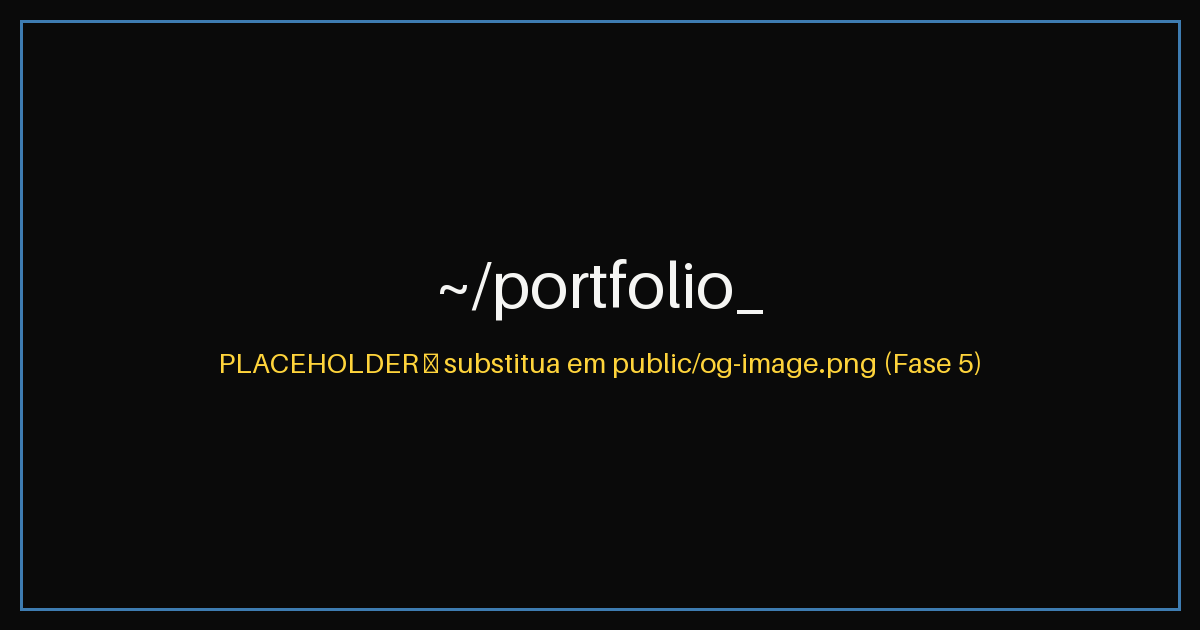
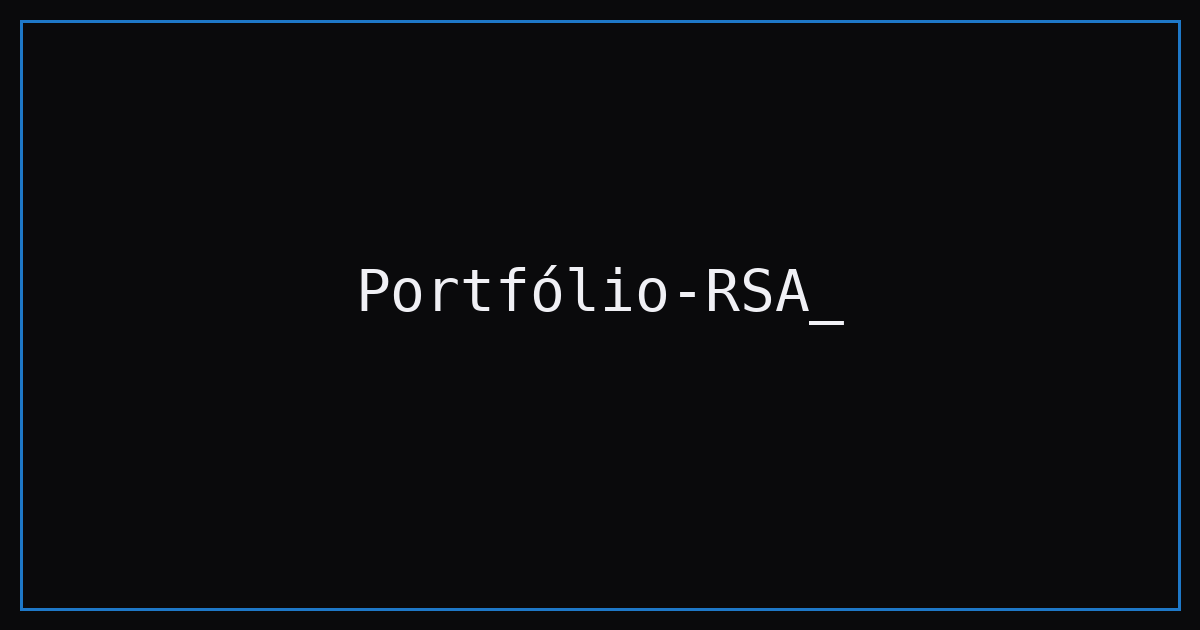
preparações finais para o deploy

diff --git a/index.html b/index.html
@@ -3,7 +3,22 @@
 <head>
 <meta charset="UTF-8">
 <meta name="viewport" content="width=device-width, initial-scale=1.0">
-<title>Seu Nome — Portfólio</title>
+<title>Renan Santos — Portfólio</title>
+<!-- Atualizar as URLs abaixo se usar domínio próprio. -->
+<meta name="description" content="Portfólio de estudante de Ciência da Computação: projetos, habilidades em programação e formas de contato.">
+<link rel="canonical" href="https://santosaguiar123.github.io/portfolio/">
+<meta property="og:title" content="Renan Santos — Portfólio">
+<meta property="og:description" content="Portfólio de estudante de Ciência da Computação: projetos, habilidades em programação e formas de contato.">
+<meta property="og:image" content="https://santosaguiar123.github.io/portfolio/og-image.png?v=034bd6854801">
+<meta property="og:image:alt" content="Portfólio de projetos e habilidades em programação">
+<meta property="og:url" content="https://santosaguiar123.github.io/portfolio/">
+<meta property="og:type" content="website">
+<meta property="og:locale" content="pt_BR">
+<meta name="twitter:card" content="summary_large_image">
+<meta name="twitter:title" content="Renan Santos — Portfólio">
+<meta name="twitter:description" content="Portfólio de estudante de Ciência da Computação: projetos, habilidades em programação e formas de contato.">
+<meta name="twitter:image" content="https://santosaguiar123.github.io/portfolio/og-image.png?v=034bd6854801">
+<meta name="twitter:image:alt" content="Portfólio de projetos e habilidades em programação">
 
 <link rel="icon" type="image/svg+xml" href="/favicon.svg">
 <link rel="stylesheet" href="/src/styles/main.css">
@@ -24,7 +39,7 @@
     <a href="#home" class="brand">~/portfolio<span>_</span></a>
 
     <button class="nav-toggle" id="navToggle" aria-label="Abrir menu" aria-expanded="false">
-      <i class="fa-solid fa-bars"></i>
+      <i aria-hidden="true" class="fa-solid fa-bars"></i>
     </button>
 
     <ul class="nav-links" id="navLinks">
@@ -40,18 +55,11 @@
   <!-- HOME                          -->
   <!-- ============================= -->
   <header id="home" class="hero">
-    <div class="avatar-frame">
-      <div class="avatar-inner">
-        <!-- SUBSTITUA por: <img src="sua-foto.jpg" alt="Foto de [Seu Nome]"> -->
-        <i class="fa-solid fa-user avatar-placeholder"></i>
-      </div>
-    </div>
-
-    <h1 class="hero-name">Seu Nome Aqui</h1>
-    <p class="hero-role">// estudante de ciência da computação<span class="cursor"></span></p>
+<h1 class="hero-name">Renan Santos de Aguiar</h1>
+    <p class="hero-role">// estudante de ciência da computação UFC<span class="cursor"></span></p>
 
     <a href="#sobre" class="scroll-cue" aria-label="Rolar para a próxima seção">
-      <i class="fa-solid fa-chevron-down"></i>
+      <i aria-hidden="true" class="fa-solid fa-chevron-down"></i>
     </a>
   </header>
 
@@ -61,20 +69,27 @@
   <section id="sobre" class="section">
     <div class="container">
       <div class="section-head">
-        <span class="section-tag">sobre-mim.md</span>
         <h2>Sobre mim</h2>
       </div>
 
       <div class="sobre-content">
         <p>
-          <!-- SUBSTITUA: breve apresentação pessoal -->
-          Escreva aqui um parágrafo contando quem você é, o que te trouxe até a
-          computação e o que te motiva a estudar e programar.
+          Sou Renan Santos, estudante de Ciência da Computação 
+          na Universidade Federal do Ceará (UFC) e atualmente membro da CeosJr,
+          Empresa Júnior de Computação. Sempre tive muito interesse por tecnologia e,
+          desde cedo, enxerguei a computação como a área em que gostaria de construir 
+          minha carreira. O que mais me motiva é a possibilidade de transformar ideias
+          em soluções reais por meio da programação, além do aprendizado constante que a área proporciona.
         </p>
         <p>
-          <!-- SUBSTITUA: trajetória acadêmica/profissional -->
-          Neste segundo parágrafo, fale sobre sua <strong>trajetória</strong>: cursos,
-          projetos pessoais, experiências e o que você busca em um estágio.
+          Ao longo da minha trajetória, venho buscando desenvolver minha experiência tanto 
+          por meio dos projetos da CeosJr quanto em projetos pessoais. Já trabalhei com 
+          desenvolvimento backend, integração entre frontend e backend por meio de API REST, 
+          implementação de soluções com chatbots para atendimento ao cliente e desenvolvimento 
+          de páginas web responsivas. Também procuro complementar minha formação com cursos online 
+          e novos projetos, buscando constantemente ampliar meus conhecimentos e vivenciar novos 
+          desafios. Atualmente, procuro uma oportunidade de estágio que me permita evoluir 
+          tecnicamente, contribuir em projetos reais e adquirir ainda mais experiência trabalhando em equipe
         </p>
       </div>
     </div>
@@ -86,30 +101,29 @@
   <section id="skills" class="section">
     <div class="container">
       <div class="section-head">
-        <span class="section-tag">skills.json</span>
         <h2>Skills</h2>
       </div>
 
       <div class="skills-grid">
         <div class="skill-card">
           <div class="window-dots"><span></span><span></span><span></span></div>
-          <div class="skill-icon"><i class="fa-brands fa-python"></i></div>
+          <div class="skill-icon"><i aria-hidden="true" class="fa-brands fa-python"></i></div>
           <h3>Python</h3>
-          <p>Descreva rapidamente sua experiência com Python: projetos, bibliotecas, tempo de prática.</p>
+          <p>Python é a linguagem com que tenho mais familiaridade. Já trabalhei com Django e Django REST Framework na construção de APIs, integração de sistemas e implementação de funcionalidades em projetos reais.</p>
         </div>
 
         <div class="skill-card">
           <div class="window-dots"><span></span><span></span><span></span></div>
-          <div class="skill-icon"><i class="fa-brands fa-js"></i></div>
+          <div class="skill-icon"><i aria-hidden="true" class="fa-brands fa-js"></i></div>
           <h3>JavaScript</h3>
-          <p>Descreva rapidamente sua experiência com JavaScript: front-end, back-end ou ambos.</p>
+          <p>Utilizo JavaScript e TypeScript no frontend, desenvolvendo interfaces e conectando-as aos serviços do backend. Também uso Node.js durante o desenvolvimento de aplicações web.</p>
         </div>
 
         <div class="skill-card">
           <div class="window-dots"><span></span><span></span><span></span></div>
-          <div class="skill-icon"><i class="fa-solid fa-database"></i></div>
+          <div class="skill-icon"><i aria-hidden="true" class="fa-solid fa-database"></i></div>
           <h3>Banco de Dados</h3>
-          <p>Descreva rapidamente sua experiência com bancos de dados: SQL, modelagem, projetos.</p>
+          <p>Já trabalhei com PostgreSQL em aplicações web, realizando sua configuração e integração com o backend. Também utilizo Docker para executar e organizar o ambiente de banco de dados durante o desenvolvimento.</p>
         </div>
       </div>
     </div>
@@ -121,7 +135,6 @@
   <section id="projetos" class="section">
     <div class="container">
       <div class="section-head">
-        <span class="section-tag">projetos/</span>
         <h2>Projetos</h2>
       </div>
 
@@ -146,25 +159,24 @@
   <section id="contato" class="section">
     <div class="container">
       <div class="section-head">
-        <span class="section-tag">contato.sh</span>
         <h2>Contate-me</h2>
       </div>
 
       <div class="contact-grid">
         <a class="contact-card" data-contact="email" aria-disabled="true" aria-label="Email indisponível">
-          <div class="contact-icon"><i class="fa-solid fa-envelope"></i></div>
+          <div class="contact-icon"><i aria-hidden="true" class="fa-solid fa-envelope"></i></div>
           <h3>Email</h3>
           <span>Contato em breve</span>
         </a>
 
         <a class="contact-card" data-contact="linkedin" target="_blank" rel="noopener noreferrer" aria-disabled="true" aria-label="LinkedIn indisponível">
-          <div class="contact-icon"><i class="fa-brands fa-linkedin-in"></i></div>
+          <div class="contact-icon"><i aria-hidden="true" class="fa-brands fa-linkedin-in"></i></div>
           <h3>LinkedIn</h3>
           <span>Contato em breve</span>
         </a>
 
         <a class="contact-card" data-contact="github" target="_blank" rel="noopener noreferrer" aria-disabled="true" aria-label="GitHub indisponível">
-          <div class="contact-icon"><i class="fa-brands fa-github"></i></div>
+          <div class="contact-icon"><i aria-hidden="true" class="fa-brands fa-github"></i></div>
           <h3>GitHub</h3>
           <span>Contato em breve</span>
         </a>
@@ -174,7 +186,7 @@
   </section>
 
   <footer>
-    &copy; 2026 — Seu Nome. Feito com HTML e CSS.
+    &copy; 2026 — Renan Santos. Feito com HTML e CSS.
   </footer>
 
   <script type="module" src="/src/main.js"></script>

diff --git a/src/data/projects.js b/src/data/projects.js
@@ -4,6 +4,7 @@
 export const projects = [
   {
     id: 'p1',
+    buttonLabel: 'Atendimento',
     name: 'Atendimento Inteligente',
     description: 'Plataforma em desenvolvimento para automatizar o atendimento de pequenas e médias empresas. Inclui cadastro de empresas, autenticação e persistência de conversas, com integração de IA planejada para responder perguntas a partir do contexto de cada negócio.',
     techs: ['Python', 'Django REST Framework', 'PostgreSQL', 'React', 'TypeScript', 'Docker'],
@@ -11,6 +12,7 @@ export const projects = [
   },
   {
     id: 'p2',
+    buttonLabel: 'Biblioteca',
     name: 'API de Gerenciamento de Livros',
     description: 'API REST para cadastrar, consultar, atualizar e remover livros, com filtros por título e autor. Conta com persistência em SQLite, interface web, documentação Swagger e testes automatizados.',
     techs: ['Python', 'Flask', 'SQLite', 'Swagger'],
@@ -18,6 +20,7 @@ export const projects = [
   },
   {
     id: 'p3',
+    buttonLabel: 'Portfólio',
     name: 'Portfólio Interativo',
     description: 'Site pessoal para apresentar projetos, habilidades e trajetória. Desenvolvido com HTML, CSS e JavaScript modular, com navegação entre seções, menu responsivo e painéis de projetos configurados por dados.',
     techs: ['HTML5', 'CSS3', 'JavaScript', 'Vite'],

diff --git a/src/styles/hero.css b/src/styles/hero.css
@@ -9,7 +9,7 @@
   align-items:center;
   justify-content:center;
   text-align:center;
-  padding: calc(var(--nav-h) + 2rem) 1.5rem 4rem;
+  padding: calc(var(--nav-h) + 4rem) 1.5rem 4rem;
   overflow:hidden;
   background:
     radial-gradient(circle at 16% 22%, rgba(62,124,177,0.28), transparent 42%),
@@ -29,36 +29,6 @@
   -webkit-mask-image: radial-gradient(circle at 50% 38%, black, transparent 72%);
   mask-image: radial-gradient(circle at 50% 38%, black, transparent 72%);
   pointer-events:none;
-}
-
-.avatar-frame{
-  position:relative;
-  z-index:1;
-  width: clamp(128px, 16vw, 176px);
-  height: clamp(128px, 16vw, 176px);
-  border-radius:50%;
-  padding:5px;
-  margin-bottom: 1.9rem;
-  border: 2px solid var(--blue);
-  box-shadow: 0 0 0 6px rgba(255,212,59,0.06), 0 25px 50px rgba(0,0,0,0.5);
-}
-
-.avatar-frame .avatar-inner{
-  width:100%; height:100%;
-  border-radius:50%;
-  background: var(--bg-elevated);
-  display:flex; align-items:center; justify-content:center;
-  overflow:hidden;
-}
-
-.avatar-frame img{
-  width:100%; height:100%; object-fit:cover; border-radius:50%;
-}
-
-.avatar-frame .avatar-placeholder{
-  color: var(--blue);
-  font-size: 2.6rem;
-  opacity:0.7;
 }
 
 .hero-name{

diff --git a/src/scripts/contact.js b/src/scripts/contact.js
@@ -38,7 +38,9 @@ export function initContact() {
     const url = profileUrl(contact[key], host);
     if (!url) continue;
     card.href = url.href;
-    card.querySelector('span').textContent = url.href.replace(/^https:\/\//, '').replace(/\/$/, '');
+    card.querySelector('span').textContent = key === 'linkedin'
+      ? 'linkedin.com/in/renan-santos'
+      : url.href.replace(/^https:\/\//, '').replace(/\/$/, '');
     card.setAttribute('aria-label', `Abrir perfil no ${label} (nova aba)`);
     card.removeAttribute('aria-disabled');
   }

diff --git a/src/scripts/projects.js b/src/scripts/projects.js
@@ -37,7 +37,7 @@ export function initProjects() {
     button.setAttribute('aria-controls', project.id);
     button.setAttribute('aria-label', `Mostrar projeto ${project.name}`);
     button.setAttribute('aria-pressed', String(index === 0));
-    const label = document.createTextNode(` projeto-${String(index + 1).padStart(2, '0')}.js`);
+    const label = document.createTextNode(` ${project.buttonLabel || project.name}`);
     button.append(createIcon('fa-regular fa-file-code'), label);
     sidebar.append(button);
 

diff --git a/README.md b/README.md
@@ -44,15 +44,17 @@ portfolio/
 
 ## Status do projeto
 
-As **Fases 1, 2 e 3** do roadmap estão implementadas: o protótipo foi modularizado
+As **Fases 1, 2, 3 e 4** do roadmap estão implementadas: o protótipo foi modularizado
 em um projeto Vite e o indicador do menu acompanha a seção visível, incluindo
 acessos por âncora e o fim da página. O link ativo também recebe `aria-current`
 para leitores de tela. Os projetos são renderizados a partir de um arquivo de dados,
-com links para os repositórios em nova aba. Os contatos ficam para a próxima fase.
+com links para os repositórios em nova aba. Os contatos usam os dados de
+`src/data/contact.js`. A preparação da Fase 5 está implementada, com publicação
+e validações de navegador ainda pendentes.
 
 - [x] Fase 2 — corrigir o indicador de seção ativa no menu
 - [x] Fase 3 — ligar os botões de projeto aos repositórios reais
-- [ ] Fase 4 — ajustar os redirecionamentos da seção de contato
+- [x] Fase 4 — ajustar os redirecionamentos da seção de contato
 - [ ] Fase 5 — SEO, acessibilidade e deploy automático
 
 ## Como editar os projetos e links
@@ -83,8 +85,63 @@ ver uma página 404. Nenhum token é necessário ou deve ser colocado neste site
 
 ## Deploy
 
-_A preencher na Fase 5, quando o GitHub Actions + GitHub Pages estiverem
-configurados._
+O workflow [deploy.yml](.github/workflows/deploy.yml) publica automaticamente
+`dist/` a cada push em `main`, com jobs separados de build e deploy. Usa Node.js
+LTS mais recente, `npm ci`, `npm audit --audit-level=high`, `node --test` e
+`npm run build`, seguido das actions oficiais de upload e deploy do Pages.
+Também pode ser iniciado manualmente na aba Actions.
+
+Na primeira publicação, selecione **Settings → Pages → Build and deployment →
+Source → GitHub Actions** no repositório. Após enviar as alterações, acompanhe
+a execução em Actions. URL prevista: https://santosaguiar123.github.io/portfolio/.
+O pipeline segue o [padrão oficial do GitHub Pages](https://docs.github.com/en/pages/getting-started-with-github-pages/using-custom-workflows-with-github-pages).
+
+O Vite mantém `base: './'` para carregar os assets no subdiretório `/portfolio/`.
+As URLs de compartilhamento são absolutas. Se mudar o domínio ou o nome do
+repositório, atualize `index.html`, `public/robots.txt` e `public/sitemap.xml`.
+O sitemap contém apenas a URL canônica: as âncoras são seções da mesma página.
+Em um site de projeto, o robots.txt fica em `/portfolio/robots.txt`; os robôs
+consultam o arquivo da raiz do domínio. Para controlar o domínio inteiro,
+publique também o robots.txt no repositório `santosaguiar123.github.io`.
+
+Antes de considerar a publicação final concluída:
+
+- [ ] Substituir “Seu Nome” nos títulos e personalizar a descrição (TODO no head).
+- [ ] Substituir `public/og-image.png`: a imagem atual é um placeholder de 1200 × 630.
+- [ ] Confirmar o deploy público via HTTPS e a prévia ao compartilhar o link.
+- [ ] Rodar Lighthouse no build servido por `npm run preview`: meta 90+ em
+  Acessibilidade e Boas Práticas; revisar também Performance e SEO.
+- [ ] Conferir Chrome e Firefox em 375, 768 e 1440 px, incluindo menu,
+  scrollspy, troca de projetos, contatos, teclado e ausência de overflow.
+
+## Segurança
+
+O CSS do Font Awesome usa SRI (`integrity`) e `crossorigin="anonymous"`.
+O CSS dinâmico do Google Fonts não usa SRI; para eliminar essa dependência,
+uma alternativa futura é hospedar as fontes localmente. Links externos que
+abrem nova aba usam `rel="noopener noreferrer"`.
+
+Não inclua segredos no repositório nem em `public/`: tudo que vai para `dist/`
+é público. `.gitignore` exclui `node_modules`, `dist`, `.env` e `.env.*`
+(exceto `.env.example`, que deve conter apenas exemplos). Os arquivos rastreados
+não incluem `.env` nem `node_modules`; isso não substitui auditoria do histórico.
+Os dados de contato são públicos por finalidade e não exigem tokens.
+
+O workflow bloqueia deploy se a auditoria detectar severidade alta/crítica.
+Para corrigir, comece com `npm audit` e analise `npm audit fix --dry-run`;
+use `npm audit fix` apenas após revisar as mudanças e refaça build e testes.
+Evite `--force`, que pode trocar versões principais do Vite.
+
+O arquivo `.github/dependabot.yml` configura atualizações semanais de npm e
+GitHub Actions. Ative também **Dependabot alerts** nas configurações de
+segurança do GitHub; o arquivo não ativa essa opção da conta/repositório.
+
+GitHub Pages não permite cabeçalhos HTTP customizados. Em eventual migração
+para Netlify/Vercel, configurar CSP conforme os domínios realmente usados
+(Google Fonts e cdnjs), `X-Content-Type-Options: nosniff`,
+`Referrer-Policy: strict-origin-when-cross-origin` e `Permissions-Policy`
+restritiva. Confira HTTPS nas configurações do Pages, especialmente se usar
+domínio próprio.
 
 ## Licença
 
